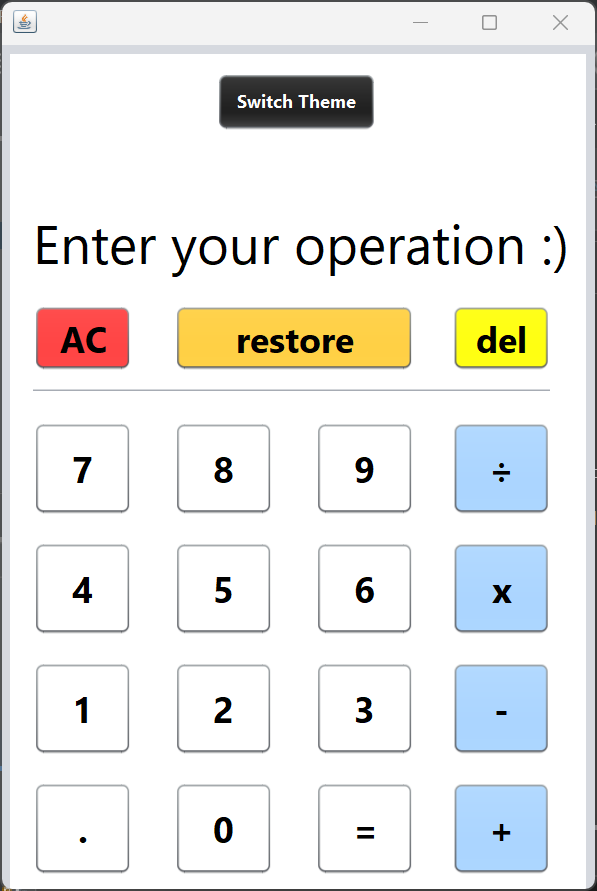
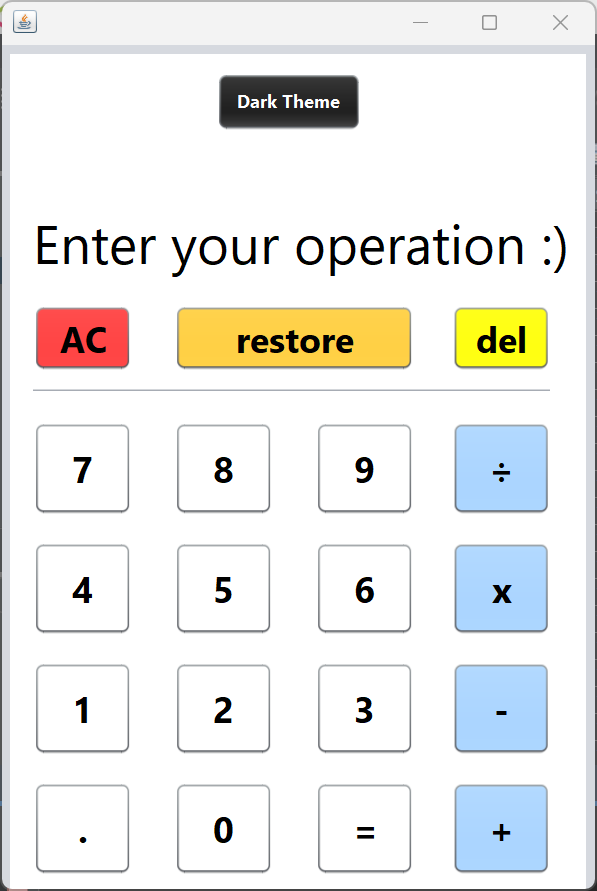
Update screens

diff --git a/README.md b/README.md
@@ -1,5 +1,19 @@
 # Minimal Java Calculator
 
+Minimal Java Calculator with Dark mode support
+
+![Java](https://img.shields.io/badge/java-%23ED8B00.svg?style=for-the-badge&logo=java&logoColor=white)
+
+## Screens
 <img src="screens/screen_1.png">
 <img src="screens/screen_2.png">
 <img src="screens/screen_3.png">
+<img src="screens/screen_4.png">
+
+## Get the source
+```
+git clone https://github.com/daviiid99/Minimal_Calculator Minimal_Calculator
+cd Minimal_Calculator/dist
+java -jar "JavaCalculatorApp.jar" 
+```
+ 
